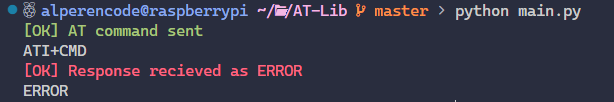
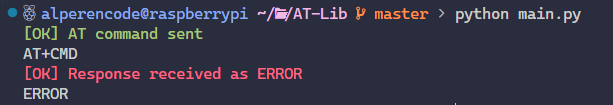
Update README and Fix typo in images

diff --git a/README.md b/README.md
@@ -6,6 +6,10 @@ Python library/module for sending [AT Commands](https://en.wikipedia.org/wiki/Ha
 - [AT-Lib (In-Development)](#at-lib-in-development)
   - [Table of Contents](#table-of-contents)
   - [Usage](#usage)
+    - [Creating instance:](#creating-instance)
+    - [Sending at command:](#sending-at-command)
+    - [Receiving response](#receiving-response)
+    - [Send and Get](#send-and-get)
   - [Proper Output](#proper-output)
   - [License](#license)
 
@@ -16,7 +20,8 @@ Python library/module for sending [AT Commands](https://en.wikipedia.org/wiki/Ha
 
 <br><hr>
 
-- Creating instance:
+### Creating instance:
+
 ```python
 from source.atlib import ATLIB
 at = ATLIB(ATLIB.get_port())
@@ -24,25 +29,27 @@ at = ATLIB(ATLIB.get_port())
 
 <hr>
 
-- Sending at command:
+### Sending at command:
 
 **Input:**
 ```python
 at.send_at("ATI")
-``` 
+```
+
 **Output:**
 
 ![SendAT](images/SendAT.PNG)
 
 <hr>
 
-- Receiving response
+### Receiving response
 
 **Input:**
 ```python
 at.send_at("ATI")
 print(at.get_response())
 ``` 
+
 **Output:**
 
 ![SendAT](images/GetResponse.PNG)
@@ -51,7 +58,8 @@ print(at.get_response())
 ```python
 at.send_at("AT+CMD")
 print(at.get_response())
-``` 
+```
+ 
 **Output:**
 
 ![SendAT](images/Error1.PNG)
@@ -60,19 +68,21 @@ print(at.get_response())
 ```python
 at.send_at("")
 print(at.get_response())
-``` 
+```
+
 **Output:**
 
 ![SendAT](images/Error2.PNG)
 
 <hr>
 
-- Send and Get
+### Send and Get
 
 **Input:**
 ```python
 print(at.send_and_get("AT"))
-``` 
+```
+ 
 **Output:**
 
 ![SendAT](images/SendGet.PNG)
@@ -103,7 +113,7 @@ if __name__ == "__main__":
 
 **Output:**
 
-![ATLib1](images/ATLib1.PNG)
+![ATLib1](images/ATLIB.PNG)
 
 
 ## License
